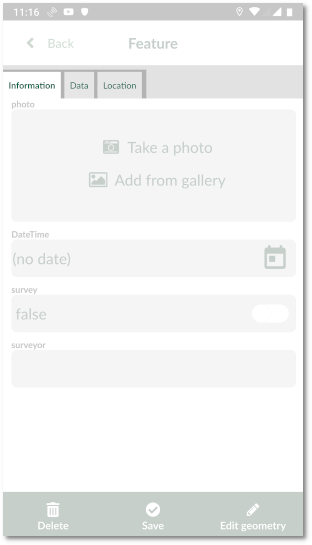
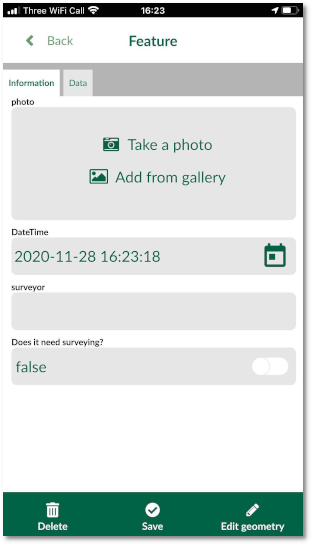
WIP: form configuration

diff --git a/www/pages/settingup_forms.md b/www/pages/settingup_forms.md
@@ -7,29 +7,67 @@ permalink: /howto/settingup_forms
 
 When capturing geo-data, it is often required to fill in a form related to the surveyed point, line or area. The forms set up can simplifying filling the data and can also ensure the correct information is populated.
 
-Input supports a number of form types:
-- Drop-down options
-- Slider
-- Date and Time
-- Checkbox
-- Photos
-- Drill-down (or cascade) forms
-
-In addition, the following configurations can be applied to form or fields:
-- Default value
-- Derived value
-- Groups
-- Constraints
-- Conditional visibility of field/group
+Input supports a number of edit widget types for forms such as: drop-down options, slider, date and time, checkbox, photos. In addition, extra configuration can be done to the fields and form layout, for example: setting a default value, conditional visibility and constrains.
 
 Setting up forms can be configured using [QGIS widget types](https://docs.qgis.org/3.16/en/docs/user_manual/working_with_vector/vector_properties.html#edit-widgets).
 
 In the sections below, we go through examples of setting up different widgets for forms in QGIS and Input:
 
-- [Form layout](/howto/settingup_forms_layout)
-- [Photos](/howto/settingup_forms_photos)
-- [Date and time](/howto/settingup_forms_datetime)
-- [Checkbox](/howto/settingup_forms_checkbox)
+## [Form layout](/howto/settingup_forms_layout)
+For layouts can be configure to have multiple groups and subgroups. This will allow users to have a more organised way of grouping the fields. With conditional visibility, you can also turn the subgroups on and off:
+
+
+![layout](../images/input_forms_layout.png)
+![layout](../images/input_forms_layout1.png)
+![layout](../images/input_forms_layout2.png)
+
+In the above example, fields are grouped into 2 tabs: **Information** and **Data** with the **Location** subgroup was controlled by the state of **surveyed** field.
+
+[For more information on how to setup the forms layout in QGIS see this section.](/howto/settingup_forms_layout)
+
+## Text field
+
+When you have a text field, the default widget to fill in the values are set automatically to be **Text edit** widget. You can configure the field to be able multiline text in QGIS:
+
+![layout](../images/input_forms_text.png)
+
+## Numeric field
+
+When you have an integer or a decimal filed, you can configure edit widget in QGIS and set it to **Range**:
+
+![layout](../images/input_forms_numbers.png)
+
+## [Photos](/howto/settingup_forms_photos)
+
+You can use your phone/tablet camera to take photos and attach them to a field. Alternatively, you can attach existing photos from your phone/tablet to a field.
+
+To be able to use camera and photos in your form, you need to change edit widget type in QGIS to **Attachment**. Ensure you select **Relative** path for the attachment under the widget configuration in QGIS.
+
+![layout](../images/input_forms_photo1.png)
+
+[For more information on setting this widget click here.](/howto/settingup_forms_photos)
+
+## [Date and time](/howto/settingup_forms_datetime)
+
+If one of your fields data type is **Date** or **Date and Time**, QGIS will automatically assigns **Date and Time** edit widget tool. This will allow you to select date and time using a calendar in Input:
+
+![layout](../images/input_forms_datetime1.png)
+![layout](../images/input_forms_datetime2.png)
+
+**Tip**: you can set the default value for this widget in QGIS to *now()** and the current date will be recoded when you capture a feature.
+
+[To learn more about setting date and time widget for your forms, click here.](/howto/settingup_forms_datetime)
+
+## [Checkbox](/howto/settingup_forms_checkbox)
+
+Checkbox is set by default in QGIS, if your data type is **Bolean**. You can also set the edit widget to have a binary choice in the form.
+
+![layout](../images/input_forms_checkbox1.png)
+![layout](../images/input_forms_checkbox2.png)
+
+[For more information, see the detailed configuration in QGIS here.](/howto/settingup_forms_checkbox)
+
+
 - [Slider](/howto/settingup_forms_slider)
 - [Drop-down menu (value map)](/howto/settingup_forms_valuemap)
 - [Default value](/howto/settingup_forms_defaults)
